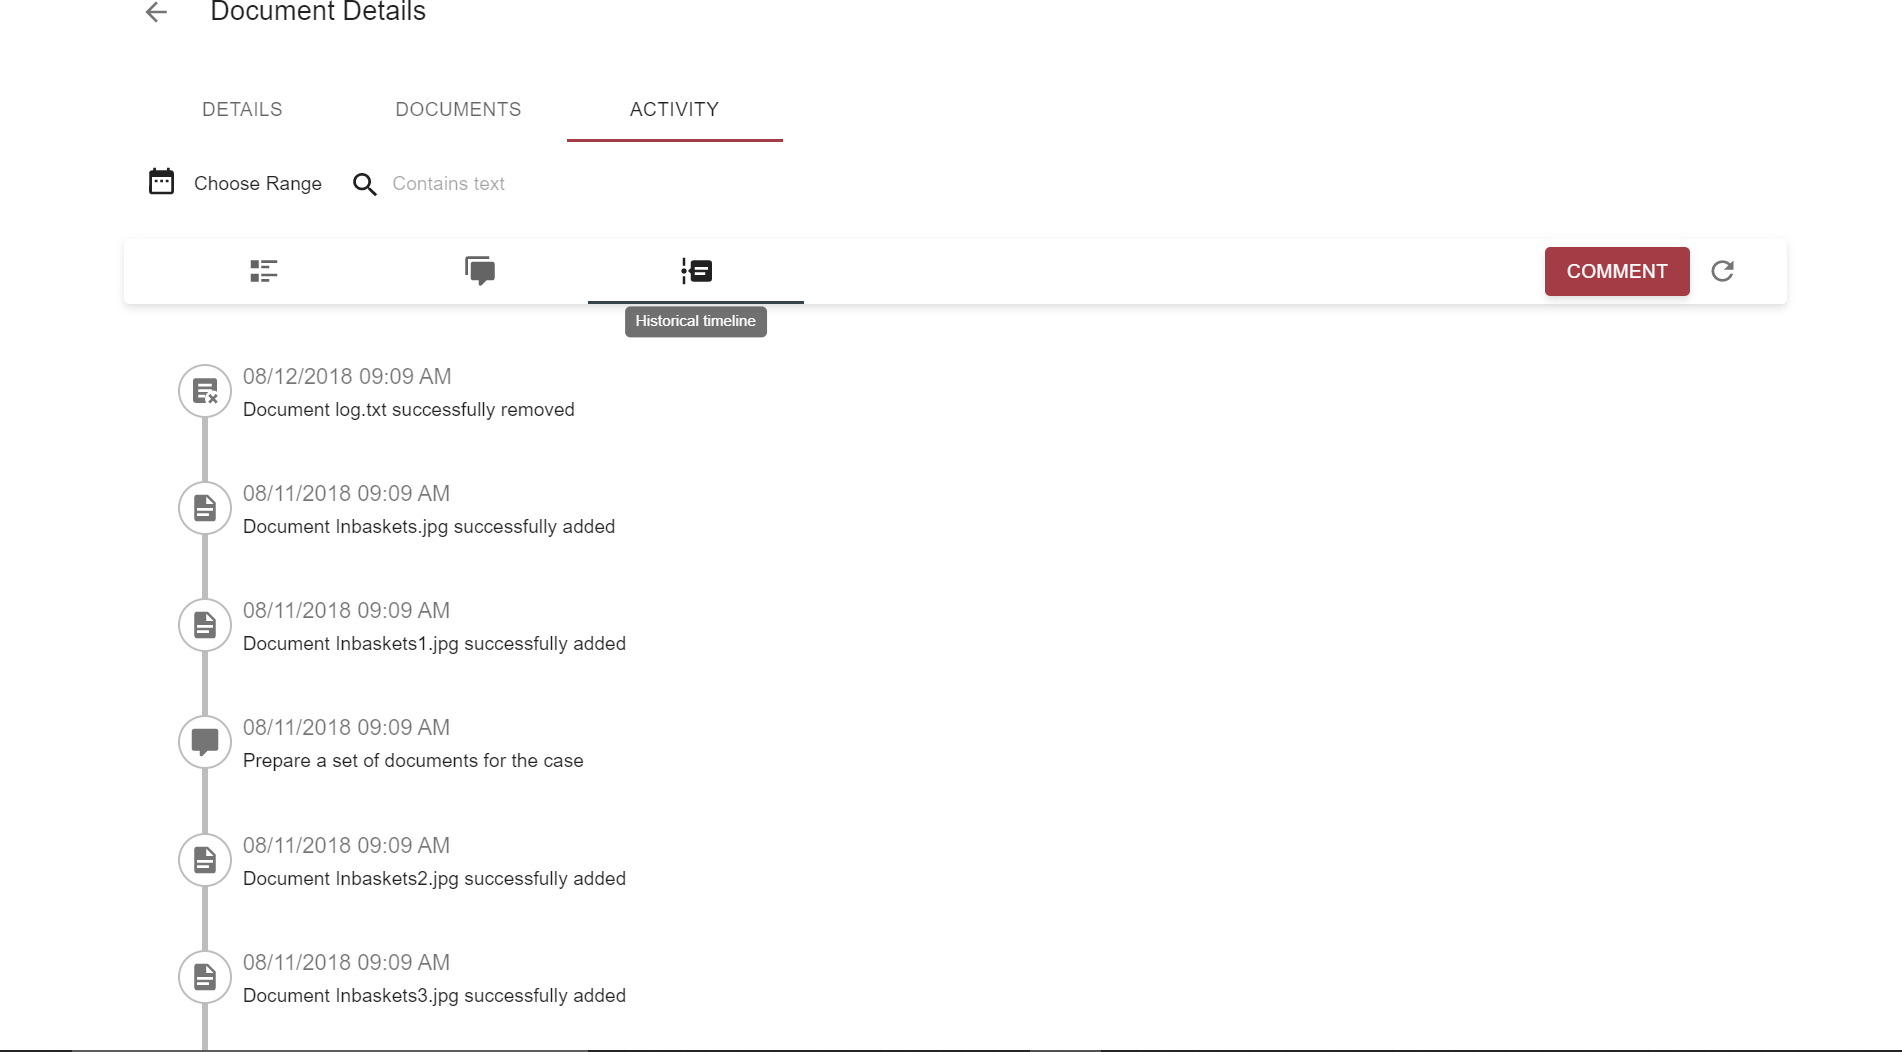
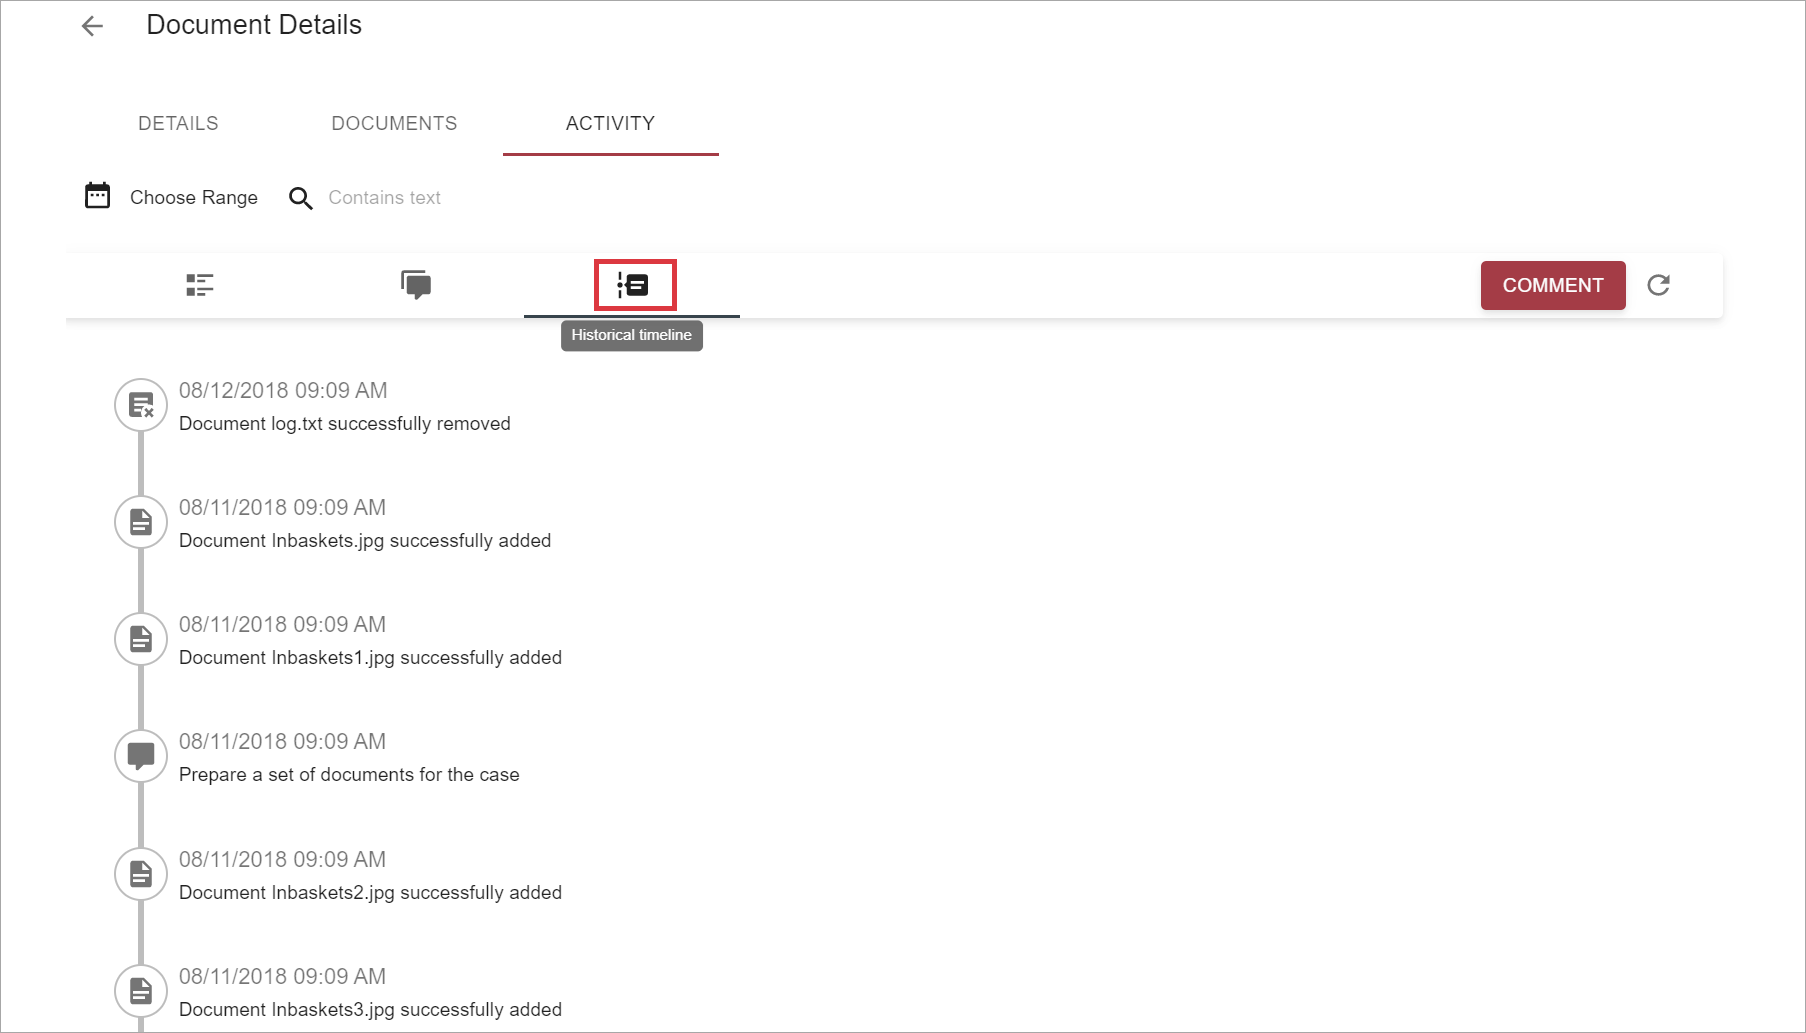
Improving images, minor styling changes.

diff --git a/_docs/unity-react/features/case-management/case-history-timeline.md b/_docs/unity-react/features/case-management/case-history-timeline.md
@@ -6,13 +6,13 @@ category: Unity 7
 # Overview
 
 Each case has timeline comments. The table below shows the type of each comment.
-Each type has corresponding icon except CASE UPDATED and TASK CREATED ones.
-Please note that instead of ID in each template, you'll see actual ID.
+Each type has corresponding icon except `CASE UPDATED` and `TASK CREATED` ones.
+Please note that instead of `ID` in each template, you'll see actual ID.
 
 | Comment Type | Code | Template | Icon |
 |-------|--------|---------|---------|
 | CASE CREATED | 101 | Case ID successfully created | ![case-created](case-history-timeline/images/icons/case-created.svg) |
-| CASE UPDATED | 102 | Case ID successfully updated | |
+| CASE UPDATED | 102 | Case ID successfully updated |no icon |
 | CASE CLOSED | 103 | Case ID successfully closed | ![case-closed](case-history-timeline/images/icons/case-closed.svg) |
 | CASE REOPENED | 104 | Case ID successfully reopened | ![case-reopened](case-history-timeline/images/icons/case-reopened.svg) |
 | CASE SPLITTED | 105 | Case successfully created by splitting ID case | ![case-splitted](case-history-timeline/images/icons/case-splitted.svg) |
@@ -21,28 +21,26 @@ Please note that instead of ID in each template, you'll see actual ID.
 | WORK ITEM ACTION EXECUTED | 301 | Workflow action ID executed successfully | ![work-executed](case-history-timeline/images/icons/work-item-action-executed.svg) |
 | DOCUMENT ADDED | 401 | Document ID successfully added | ![document-added](case-history-timeline/images/icons/document-added.svg) |
 | DOCUMENT REMOVED | 402 | Document ID successfully removed | ![document-removed](case-history-timeline/images/icons/document-removed.svg) |
-| TASK CREATED | 501 | Task ID successfully created | |
+| TASK CREATED | 501 | Task ID successfully created |no icon |
 
 
 # How To See Case Historical Timeline
 
-First, open a case to see its timeline.
+- Open a case to see its timeline:
 
-![case-created](case-history-timeline/images/open-activity.png)
-
-
-Then click on activity
-
-![case-created](case-history-timeline/images/open-timeline.png)
+    ![case-created](case-history-timeline/images/open-activity.png)
 
 
-Finally, click on historical timeline
+- Click on `ACTIVITY`:
 
-![case-created](case-history-timeline/images/historical-timeline.png)
+    ![case-created](case-history-timeline/images/open-timeline.png)
+
+
+- Click on `Historical timeline` icon:
+
+    ![case-created](case-history-timeline/images/historical-timeline.png)
 
 
 # Configuration
 
 *content to be added*
-
-`Update` and `Delete` actions appear automatically, no configuration is required.
